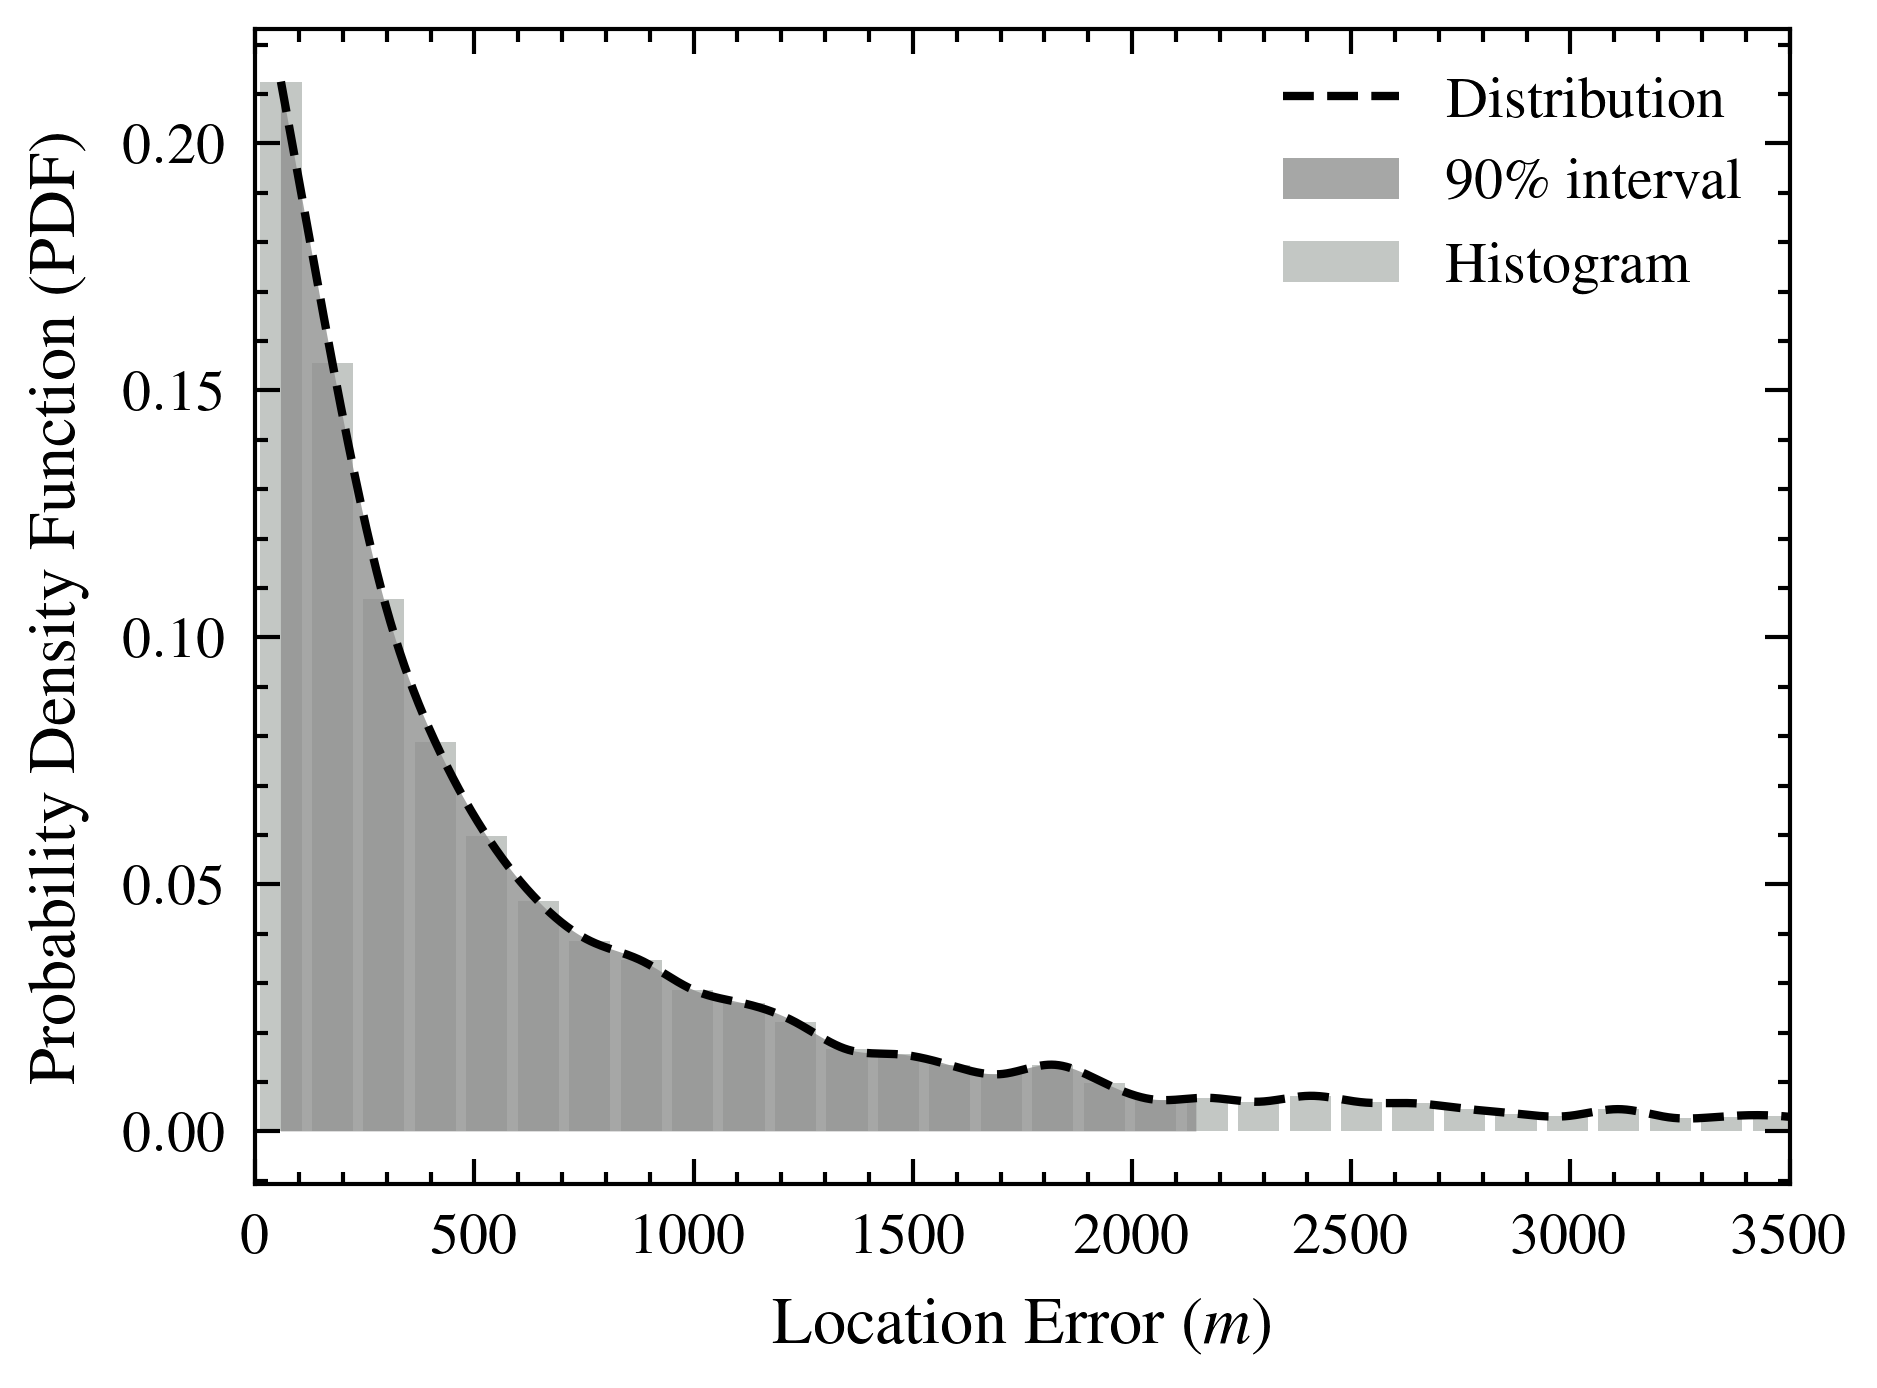
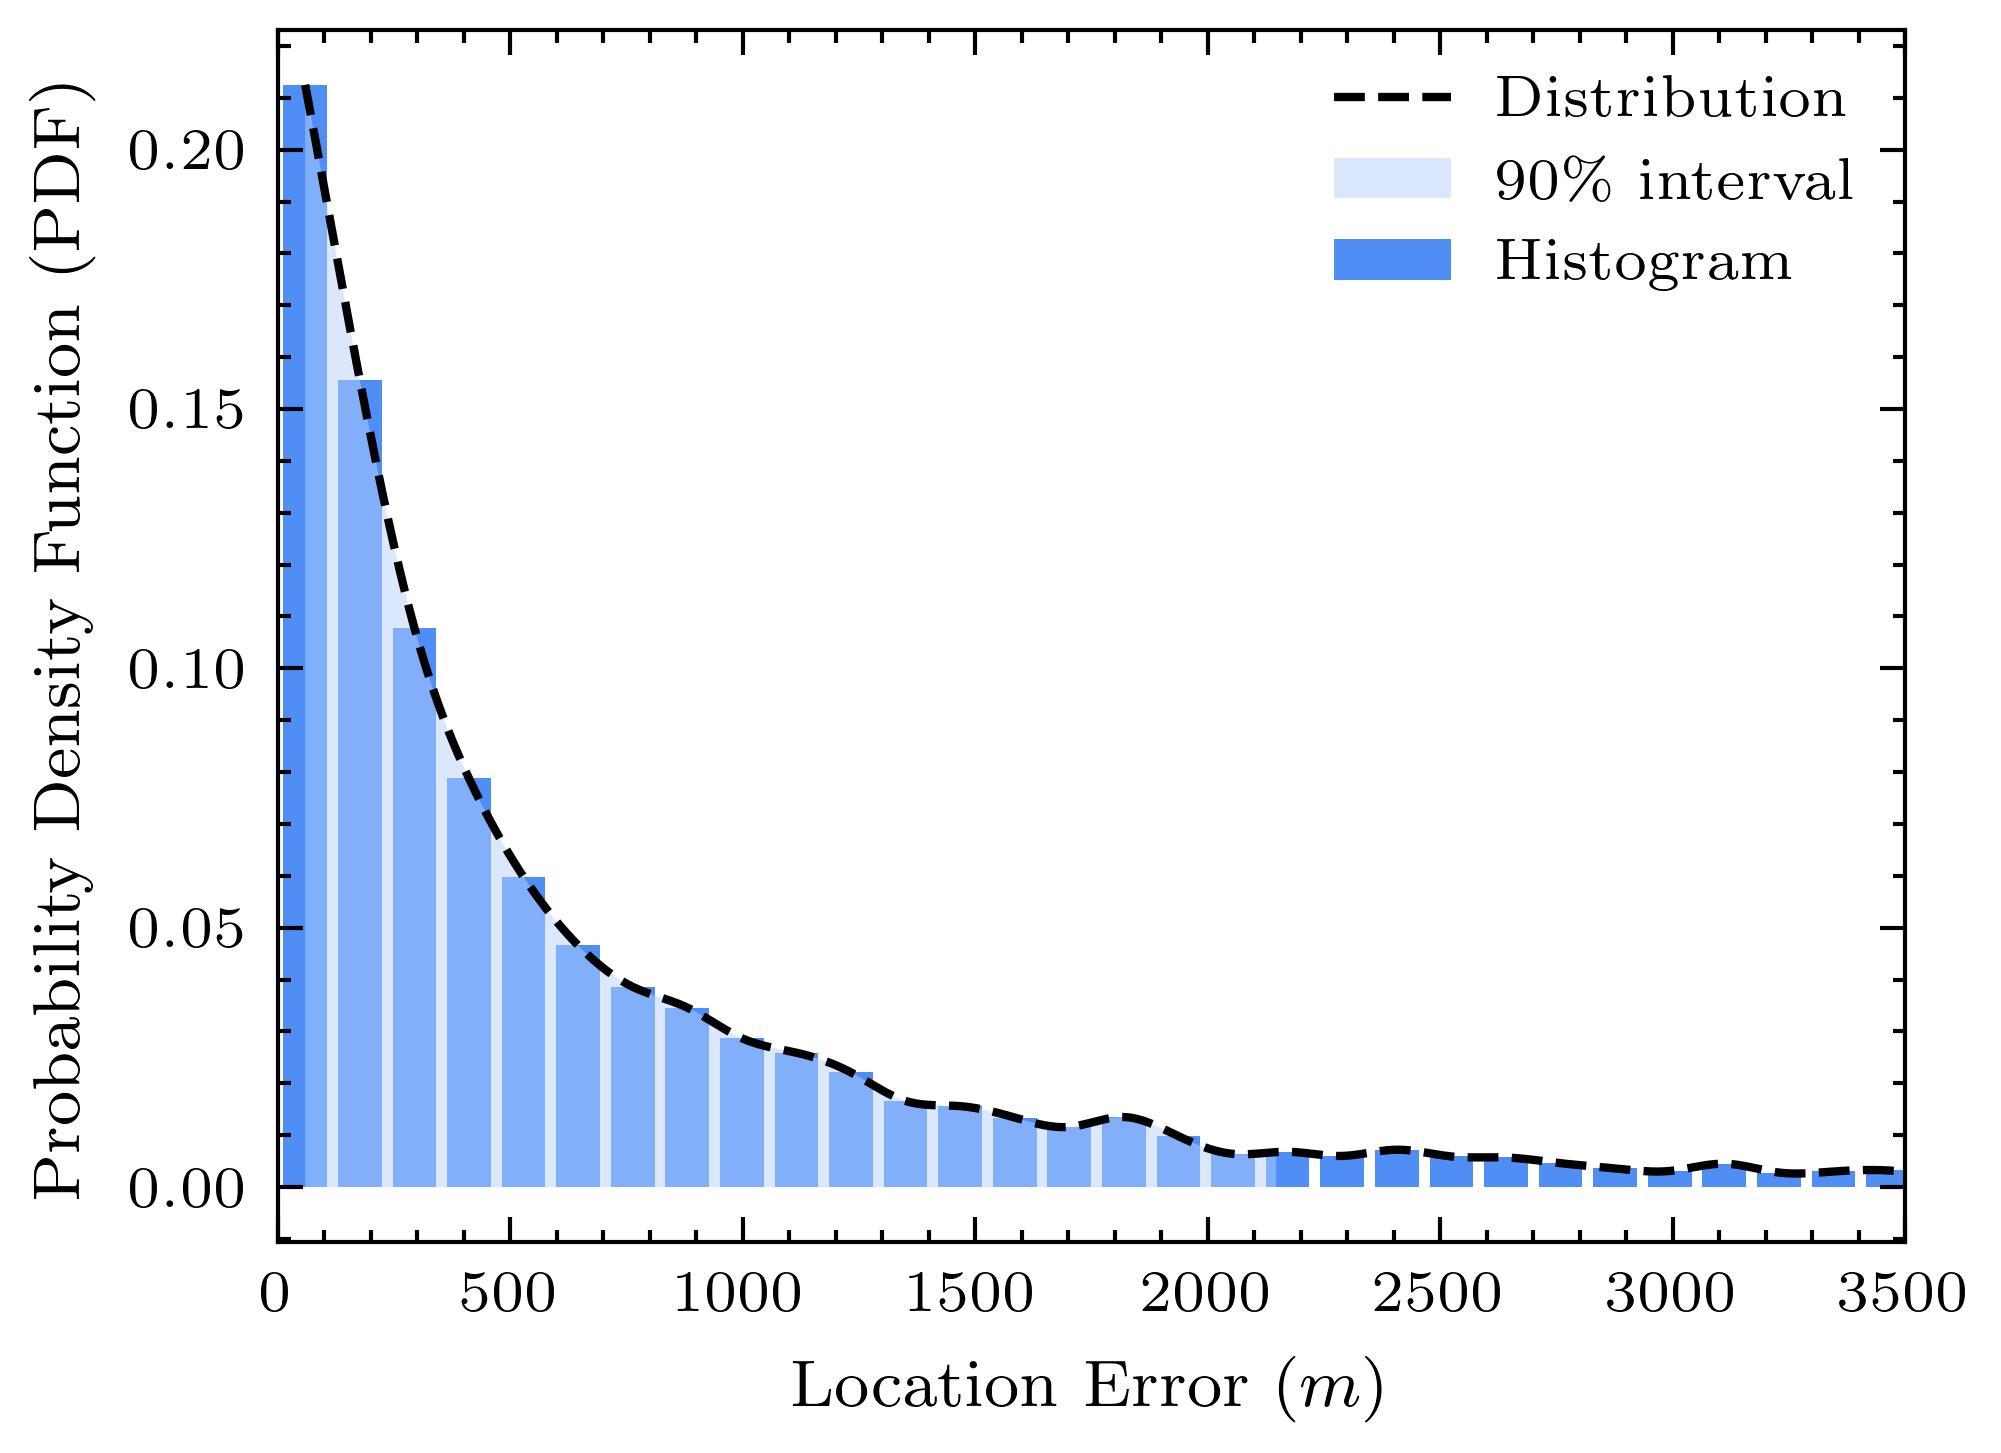
Polishing graphs for BABT Journal

diff --git a/results.py b/results.py
@@ -306,7 +306,7 @@ Z_mle = griddata((x, y), z_mle, (X, Y), method='cubic')
 
 fig1 = plt.figure(figsize=(12, 7))
 ax1 = fig1.add_subplot(111, projection='3d')
-surf1 = ax1.plot_surface(X, Y, Z_mle, cmap=meu_cinza,
+surf1 = ax1.plot_surface(X, Y, Z_mle, cmap="coolwarm",
                          alpha=0.6, antialiased=True)
 
 ax1.plot(
@@ -351,7 +351,7 @@ plt.savefig("data/images/grafico_calibracao_MLE_LSA.png",
 
 fig2 = plt.figure(figsize=(12, 7))
 ax2 = fig2.add_subplot(111, projection='3d')
-surf2 = ax2.plot_surface(X, Y, Z_time, cmap=meu_cinza,
+surf2 = ax2.plot_surface(X, Y, Z_time, cmap="coolwarm",
                          alpha=0.6, antialiased=True)
 
 # cbar2 = fig2.colorbar(surf2, ax=ax2, shrink=0.5, aspect=10, pad=0.1)
@@ -459,7 +459,7 @@ Z_mle = griddata((x, y), z_mle, (X, Y), method='cubic')
 
 fig1 = plt.figure(figsize=(12, 7))
 ax1 = fig1.add_subplot(111, projection='3d')
-surf1 = ax1.plot_surface(X, Y, Z_mle, cmap=meu_cinza,
+surf1 = ax1.plot_surface(X, Y, Z_mle, cmap="coolwarm",
                          alpha=0.6, antialiased=True)
 
 # cbar1 = fig1.colorbar(surf1, ax=ax1, shrink=0.5, aspect=10, pad=0.1)
@@ -511,7 +511,7 @@ Z_time = griddata((x, y), z_time, (X, Y), method='cubic')
 
 fig2 = plt.figure(figsize=(12, 7))
 ax2 = fig2.add_subplot(111, projection='3d')
-surf2 = ax2.plot_surface(X, Y, Z_time, cmap=meu_cinza,
+surf2 = ax2.plot_surface(X, Y, Z_time, cmap="coolwarm",
                          alpha=0.6, antialiased=True)
 
 # cbar2 = fig2.colorbar(surf2, ax=ax2, shrink=0.5, aspect=10, pad=0.1)

diff --git a/tests/test_stela_clustering.py b/tests/test_stela_clustering.py
@@ -24,7 +24,7 @@ from scipy.signal import savgol_filter
 
 plt.style.use(['science'])
 
-plt.rcParams.update({
+"""plt.rcParams.update({
     'font.size': 8,
     'axes.labelsize': 8,
     'axes.titlesize': 8,
@@ -36,7 +36,7 @@ plt.rcParams.update({
     'legend.frameon': False,
     'legend.handlelength': 2.0,
     'legend.borderaxespad': 0.4,
-})
+})"""
 
 
 def test_clustering_stela(fake_test=False):
@@ -99,9 +99,6 @@ def test_clustering_stela(fake_test=False):
         print(runs * num_events * len(time_multipliers))
 
         print(np.max(time_multipliers) * delta_time )
-
-
-    exit()
 
     for time_multiplier in time_multipliers:
 
@@ -183,7 +180,7 @@ def test_clustering_stela(fake_test=False):
         plt.plot(x,
                  100 * np.ones(len(x)),
                  linestyle='--',
-                 color='gray',
+                 color='blue',
                  linewidth=1.0,
                  label=r'Reference ($100\%$)')
 

diff --git a/GeoLightning/GraphUtils/Graphics.py b/GeoLightning/GraphUtils/Graphics.py
@@ -133,7 +133,7 @@ def make_histogram_graph(hist: np.ndarray,
      #: gráficos
     plt.close('all')
 
-    plt.style.use(['science', 'ieee'])
+    # plt.style.use(['science', 'ieee'])
 
     #: histograma
 
@@ -152,7 +152,7 @@ def make_histogram_graph(hist: np.ndarray,
 
     plt.bar(wbin_edges,
             hist,
-            color="#c3c7c4",
+            color="#4e8ef5",
             edgecolor="#000000",
             linewidth=0,
             width=b_size,
@@ -168,9 +168,9 @@ def make_histogram_graph(hist: np.ndarray,
     plt.fill_between(rv_x_confidence_interval,
                      0,
                      rv_values_confidence_interval,
-                     facecolor="#909190",
+                     facecolor="#b6d1fd",
                      label="90\% interval",
-                     alpha=0.8)
+                     alpha=0.5)
 
     plt.xlabel(xlabel)
 

diff --git a/make_problem_graph.py b/make_problem_graph.py
@@ -7,7 +7,7 @@ import matplotlib.pyplot as plt
 import scienceplots
 import numpy as np
 # configuração do matplotlib
-plt.style.use(['science'])
+# plt.style.use(['science'])
 # Coordenadas dos sensores em disposição hexagonal com 1 no centro
 radius = 80  # raio do hexágono (km)
 angles = np.linspace(0, 2 * np.pi, 6, endpoint=False)
@@ -20,8 +20,8 @@ sensor_positions = np.array(sensor_positions)
 event_positions = np.random.uniform(-50, 50, size=(2, 2))
 
 # Define cores
-sensor_color = 'black'
-event_color = 'gray'
+sensor_color = 'blue'
+event_color = 'green'
 circle_color = 'black'
 
 # Cria a figura
